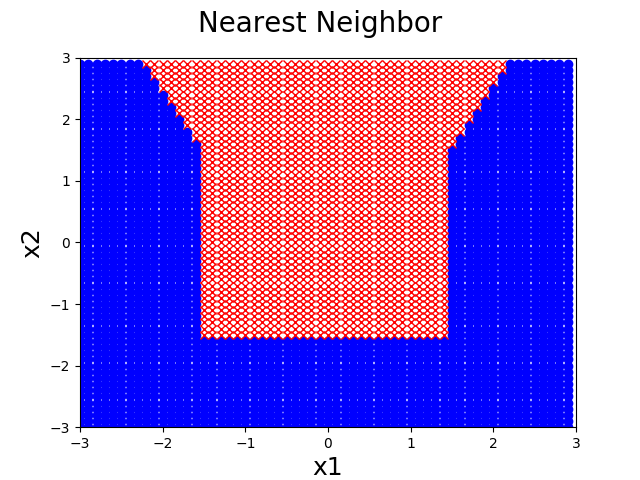
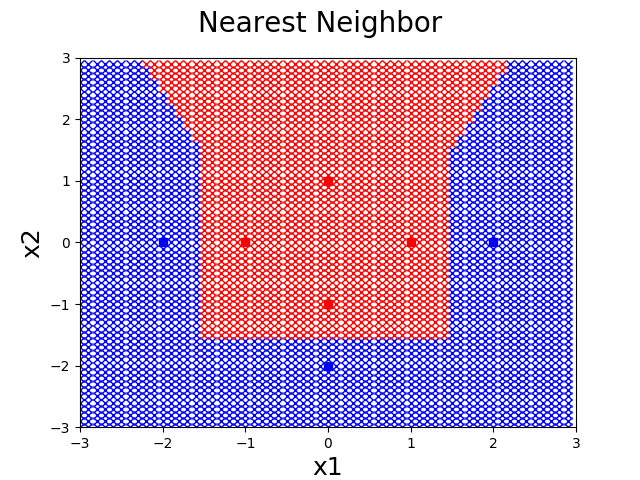
Completed 6-1,6-4. Images done

diff --git a/HW10/prob6-4.py b/HW10/prob6-4.py
@@ -9,72 +9,49 @@ import random
 
 from NNOB import *
 
-def getData():
-	dataPOS = []
+def cart2pol(x, y):
+	rho = numpy.sqrt(x**2 + y**2)
+	theta = numpy.arctan2(y, x)
+	return[rho, theta]
+
+def pol2cart(rho, theta):
+	x = rho * numpy.cos(theta*math.pi)
+	y = rho * numpy.sin(theta*math.pi)
+	return(x, y)
+
+def getData(numPoints):
 	dataNEG = []
-	datax1POS = [2.,-2.,0]
-	datax2POS = [0,0,-2.]
-	datax1NEG = [1.,0,0,-1.]
-	datax2NEG = [0,1.,-1.,0]
-	ys = [-1,-1,-1,-1,1,1,1]
-
-	posOnes = []
-	i = 0
-	while (i < len(datax1POS)):
-		posOnes.append(1)
-		i += 1
-	negOnes = []
-	i = 0
-	while (i < len(datax1NEG)):
-		negOnes.append(-1)
-		i += 1
-
-	dataPOS.append(posOnes)
-	dataPOS.append(datax1POS)
-	dataPOS.append(datax2POS)
-	dataNEG.append(negOnes)
-	dataNEG.append(datax1NEG)
-	dataNEG.append(datax2NEG)
-
-	return (dataPOS, dataNEG)
-
-def tranOne(x1, x2):
-	return math.sqrt(x1**2 + x2**2)
-
-def tranTwo(x1, x2):
-	return math.atan2(x2, x1)
-	# if (x1 == 0):
-	# 	if (x2 > 0):
-	# 		return (math.pi/2)
-	# 	elif (x2 < 0):
-	# 		return (-math.pi/2)
-	# return numpy.arctan(x2/x1)
-
-def zTransform(dataPOS, dataNEG):
-	zDataPOS = []
-	zDataNEG = []
+	dataPOS = []
 	i = 0
 	while (i < 3):
-		zDataPOS.append(list())
-		zDataNEG.append(list())
+		dataPOS.append(list())
+		dataNEG.append(list())
 		i += 1
 
-	i = 0
-	while (i < len(dataPOS[0])):
-		zDataPOS[0].append(1)
-		zDataPOS[1].append(tranOne(dataPOS[1][i], dataPOS[2][i]))
-		zDataPOS[2].append(tranTwo(dataPOS[1][i], dataPOS[2][i]))
+	i = 0	
+	while (i < numPoints):
+		blueorred = random.randrange(-1,2,2)
+		if (blueorred == 1):
+			theta = random.uniform(1,2)
+			rho = random.uniform(10,15)
+			x1, x2 = pol2cart(rho, theta)
+			x1 += 30
+			x2 += 22.5
+			dataPOS[0].append(1)
+			dataPOS[1].append(x1)
+			dataPOS[2].append(x2)
+		if (blueorred == -1):
+			red = []
+			theta = random.uniform(0,1)
+			rho = random.uniform(10,15)
+			x1, x2 = pol2cart(rho, theta)
+			x1 += 17.5
+			x2 += 27.5
+			dataNEG[0].append(1)
+			dataNEG[1].append(x1)
+			dataNEG[2].append(x2)
 		i += 1
-	i = 0
-	while (i < len(dataNEG[0])):
-		zDataNEG[0].append(1)
-		zDataNEG[1].append(tranOne(dataNEG[1][i], dataNEG[2][i]))
-		zDataNEG[2].append(tranTwo(dataNEG[1][i], dataNEG[2][i]))
-		i += 1
-
-	print("zDataPOS: ", zDataPOS)
-	print("zDataNEG: ", zDataNEG)
-	return (zDataPOS, zDataNEG)
+	return (dataPOS, dataNEG)
 
 def getDistance(testPoint, dataPointx1, dataPointx2):
 	return math.sqrt( ((testPoint[1]-dataPointx1)**2) + ((testPoint[2]-dataPointx2)**2) )
@@ -156,7 +133,7 @@ def makeGraph(NN, startingX1, endingX1, startingX2, endingX2, increment, dataPOS
 	return (NNdataPOS, NNdataNEG)
 
 def plot(dataPOS, dataNEG, x1beg, x1end, x2beg, x2end):
-	plt.plot(dataPOS[1], dataPOS[2], 'bx', label = "1")
+	plt.plot(dataPOS[1], dataPOS[2], 'bo', label = "1")
 	plt.plot(dataNEG[1], dataNEG[2], 'rx', label = "-1")
 
 def plotOG(dataPOS, dataNEG, x1beg, x1end, x2beg, x2end):
@@ -164,28 +141,23 @@ def plotOG(dataPOS, dataNEG, x1beg, x1end, x2beg, x2end):
 	plt.plot(dataNEG[1], dataNEG[2], 'rs', label = "-1")
 
 def main():
-	dataPOS, dataNEG = getData()
-	zDataPOS, zDataNEG = zTransform(dataPOS, dataNEG)
-	x1beg = -3.0
-	x1end = 3.0
-	x2beg = -3.0
-	x2end = 3.0
+	dataPOS, dataNEG = getData(500)
+	x1beg = 0
+	x1end = 50
+	x2beg = 0
+	x2end = 50
+	increment = 1
 
 	fig = plt.figure()
-	fig.suptitle('Nearest Neighbor', fontsize = 20)
+	fig.suptitle('Nearest Neighbor 3-1', fontsize = 20)
 	plt.xlabel('x1', fontsize = 18)
 	plt.ylabel('x2', fontsize = 18)
 	plt.legend(loc = 'upper right')
 	plt.axis([x1beg, x1end, x2beg, x2end])
 
-	#part 1
 	plotOG(dataPOS, dataNEG, x1beg, x1end, x2beg, x2end)
-	NNPOS, NNNEG = makeGraph(3, x1beg, x1end, x2beg, x2end, 0.1, dataPOS, dataNEG)
+	NNPOS, NNNEG = makeGraph(3, x1beg, x1end, x2beg, x2end, increment, dataPOS, dataNEG)
 	plot(NNPOS, NNNEG, x1beg, x1end, x2beg, x2end)
-
-	# plotOG(zDataPOS, zDataNEG, x1beg, x1end, x2beg, x2end)
-	# NNPOS, NNNEG = makeGraph(1, x1beg, x1end, x2beg, x2end, 0.1, zDataPOS, zDataNEG)
-	# plot(NNPOS, NNNEG, x1beg, x1end, x2beg, x2end)
 
 	plt.show()
 
